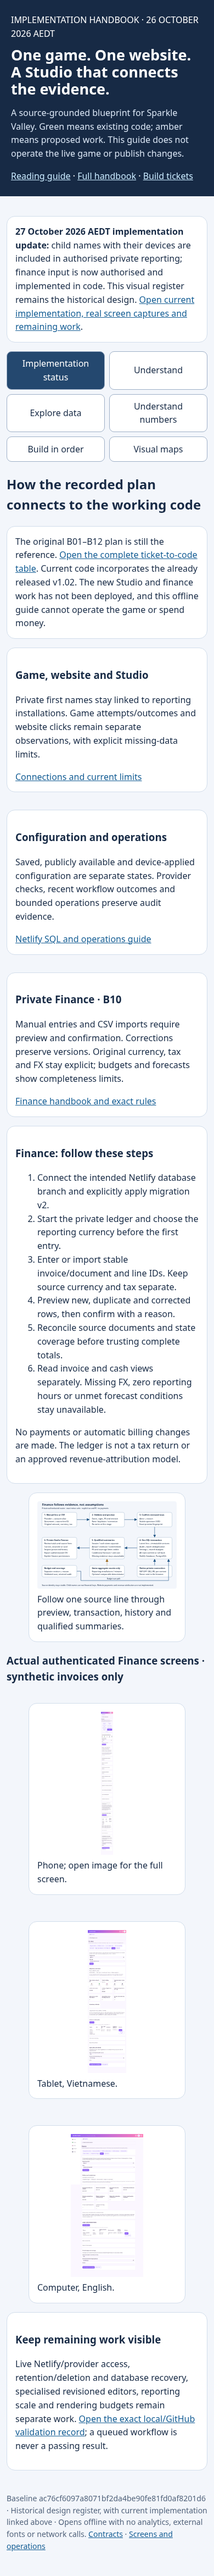
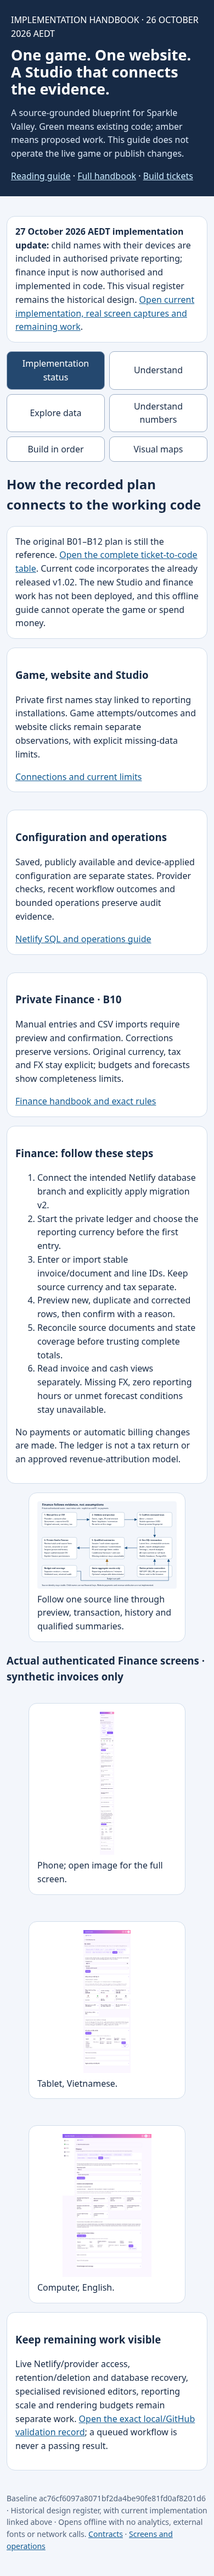
Document exact finance fields and comprehensive validation handoff [skip netlify]

Changed region(s): [[0.3385, 0.8101, 0.6154, 0.8724], [0.4, 0.7478, 0.5846, 0.8101], [0.4615, 0.6543, 0.5231, 0.7166]]

diff --git a/docs/studio-management-foundation/FINANCE.md b/docs/studio-management-foundation/FINANCE.md
@@ -48,6 +48,68 @@ flowchart LR
 
 The finance API consumes aggregate gameplay denominators only. It does not join invoices to child names or introduce a website tracking token. The public game and website cannot read the ledger.
 
+## Field-by-field connection for a builder
+
+Read these sources in order: [form and display](../../studio/ui/finance.ts),
+[CSV parser/export](../../netlify/lib/management/finance-import.mts),
+[validation and exact arithmetic](../../netlify/lib/management/finance-values.mts),
+[transactions and summaries](../../netlify/lib/management/finance.mts),
+[authenticated routes](../../netlify/lib/management/http.mts).
+Every imported row passes through `normalLine`; an unknown field is rejected.
+The row's canonical values are saved under `finance_lines[id].body`, with every
+changed revision retained in `finance_versions`.
+
+| Field in JSON / CSV | What the operator supplies | Where it is used |
+|---|---|---|
+| `schemaVersion` | Integer `1` | Reject unsupported row shapes before preview |
+| `provider` | Source/provider label, not a credential | Part of stable source identity; shown in ledger |
+| `accountAlias` | Non-secret account label | Separates invoices from different accounts; part of identity |
+| `sourceDocumentId` | Original document/invoice ID | Part of identity; shown in ledger and history |
+| `sourceLineId` | Stable row ID within that document | Completes identity; unchanged reimports are duplicates |
+| `kind` | `actual`, `estimate`, `commitment`, `credit`, `revenue` | Chooses actual/estimate/reserve/income calculation and sign rules |
+| `amountMinor` | Tax-exclusive integer minor units; form converts exact decimal input | Original currency allocation, FX, cost/income totals |
+| `currency` | Supported ISO code | Defines decimal places; preserved in ledger/export |
+| `taxMinor` | Signed integer tax units in the same original currency | Separate expense/revenue tax totals; not an inferred tax return |
+| `periodStart`, `periodEnd` | Inclusive calendar service dates | Original-unit invoice allocation across days/months |
+| `recognisedAt` | Valid timestamp, canonicalised to UTC | Preserved source evidence; does not replace service-day allocation |
+| `paidAt` | Timestamp or null; form uses chosen calendar day at midnight UTC | Cash month selection; absent date remains unpaid/unknown |
+| `category` | Allowlisted cost/income category | Preserved classification and kind/refund validation |
+| `costType` | `fixed`, `variable`, `unallocated` | Commitment compatibility and forecast eligibility |
+| `expectedRevision` | `0` for a new source; current revision for a correction | Optimistic conflict check; stored revision increments only on a change |
+| `reconciled` | Boolean after comparison with source evidence | Completeness and forecast conditions; forbidden for estimates/commitments |
+| `voided` | Boolean for excluded mistaken rows | Excludes row from totals while retaining every version |
+| `settles` | Null or an existing commitment's 64-character internal ID | Reduces only the linked compatible commitment's outstanding reserve |
+| `fx.targetCurrency` / `fxTargetCurrency` | Ledger reporting currency | Reject mismatched FX target |
+| `fx.rate` / `fxRate` | Positive decimal string: original major unit → reporting major units | Exact rational conversion; rounded half away from zero |
+| `fx.source` / `fxSource` | Non-secret quote/evidence label | Preserved FX provenance |
+| `fx.asOf` / `fxAsOf` | Quote calendar date | Preserved FX provenance; no automatic live quote is inferred |
+
+`id`, body `hash`, stored `revision`, actor and update time are server-managed.
+A line audit stores before/after hashes; immutable versions retain the full row.
+`finance_batches` records the operation UUID/fingerprint and its result so a lost
+response can be retried without another write. Setting and budget audits retain
+their before/after values. These are typed namespaces in the shared SQL record
+table, not extra public tables or browser storage.
+
+All routes below begin `/studio/api/management/finance`. GET requires
+`finance.read`; POST requires `finance.write` and the normal Studio request
+protection. The session supplies the actor; the browser cannot nominate one.
+
+| Method / suffix | Request | Result / persistence |
+|---|---|---|
+| GET root | `month=YYYY-MM`, `basis=invoice` or `cash` | Qualified snapshot, original lines, settings, budget and quality flags; no mutation |
+| POST `/settings` | `expectedRevision`, `reportingCurrency`, `reason` | Explicit setup, versioned settings and audit |
+| POST `/preview` | Exactly one of `lines` or `csv`, plus `expectedSettingsRevision` | Read-only new/duplicate/correction rows and exact `previewHash` |
+| POST `/commit` | Same input and settings revision, `previewHash`, stable UUID `operationId`, `reason` | One locked transaction for lines, immutable versions, audit and batch receipt |
+| POST `/budget` | `month`, reporting-currency `amountMinor`, nullable `coverageThrough`, `expectedRevision`, `reason` | Versioned monthly budget and manual completeness assertion; immutable audit |
+| GET `/history/:id` | Stable internal source-line ID | All retained line versions |
+| GET `/history/budget/:month` | `YYYY-MM` | Budget/coverage audit versions |
+| GET `/export` | No body | Authenticated CSV including voided rows; private/no-store |
+
+No route changes the public game's coins, player saves, parent website purchases
+or provider billing. Game-derived unit costs use only the existing aggregate
+installation/minute denominators described above.
+
 ## Invoice, cash, tax and FX rules
 
 - **Invoice service-period view:** spread each original minor unit over inclusive service days. Earlier days receive indivisible remainder units. Select the requested calendar-month portion, then convert using the explicit FX rate and currency exponents. This is a documented operational allocation, not a statutory accounting policy. The entered recognition date remains preserved for source evidence; it does not replace the service-period allocation.

diff --git a/docs/studio-management-foundation/09-RUNBOOKS.md b/docs/studio-management-foundation/09-RUNBOOKS.md
@@ -1,6 +1,8 @@
 # Operating handbook and recovery procedures
 
-These are proposed procedures for the future management features. Existing Studio/Netlify/GitHub operations retain their current permissions and release rules. Every procedure records exact build, environment, timestamps and evidence; dates shown to the owner use Australia/Sydney with AEDT/AEST. Do not put secrets or private family data in reports.
+**Current implementation:** manual finance and the implemented reporting/configuration/operations routes are documented in [the operator guide](IMPLEMENTATION.md) and [Finance handbook](FINANCE.md). Production Netlify access and recovery drills are still unverified.
+
+The broader recovery, retention and automation procedures below remain proposed where their required jobs are not implemented. Existing Studio/Netlify/GitHub operations retain their current permissions and release rules. Every procedure records exact build, environment, timestamps and evidence; dates shown to the owner use Australia/Sydney with AEDT/AEST. Do not put secrets or private family data in reports.
 
 ## Morning review: five minutes
 
@@ -70,3 +72,41 @@ Check each store's approved policy and last cleanup result. New retention jobs r
 Record candidate source, website review lock, game/Studio/service-worker versions, schema migrations and old-client support. Complete meaningful tests and review EN/VI phone/tablet/computer evidence. Keep failed/skipped/retried and real-device/provider gaps explicit. Prepare the Netlify package and exact deployment/rollback steps; obtain the owner's round-specific approval before main/Netlify changes.
 
 After an approved deployment, verify response versions/assets, representative functional behavior and reporting receipt. Watch comparable cohorts and configuration application status. If rolling back, check save/schema compatibility and live rules first; do not restore an old binary that cannot read retained data. Follow the same explicit approval boundary for application publication changes.
+
+
+## H. Manual finance review using the implemented screen
+
+1. Before real use, verify the intended Netlify deployment context, migrations and
+   finance grants through the operator setup. Complete the ledger setup explicitly;
+   confirm reporting currency and tax-exclusive treatment before the first entry.
+2. Choose the calendar month and invoice-service-period view. Use the source
+   invoice's provider, account alias, document ID and stable line ID. Enter tax
+   separately. A new document line starts at revision 0; a correction uses the
+   existing line and its current revision. Never substitute game coins for money.
+3. For imports, use the authenticated CSV export as the header template. Keep all
+   amounts in original integer minor units, preserve source identity, and supply
+   explicit FX evidence where needed. Preview without saving, compare every
+   new/duplicate/corrected row, then confirm with a reason. Retain the same operation
+   ID if retrying a response whose result is unknown.
+4. Reconcile each actual/credit/revenue line against its source. An estimate or
+   commitment is not a reconciled actual invoice. Link a settlement only to the
+   intended compatible commitment; review outstanding reserves separately.
+5. Set the month's budget in the ledger's reporting currency. Set coverage through
+   a date only after reviewing source completeness through that date. Coverage is
+   your assertion, not a provider receipt; future coverage is rejected. Do not mark
+   it complete merely to unlock a forecast or unit-cost card.
+6. Read missing FX, unreconciled, unpaid and coverage flags before drawing a
+   conclusion. Compare actuals, estimates and commitments as distinct figures.
+   A subtotal may be useful while incomplete, but it is not the final monthly cost.
+7. Switch to cash view to inspect paid-date totals. Follow the UTC calendar-date
+   convention in [Finance](FINANCE.md) when importing offset timestamps. Invoice
+   allocations and cash payments can legitimately fall in different months.
+8. Review budget history and each corrected line's history. A late correction can
+   restate an earlier month; there is no closed-period/frozen statement feature.
+   Export privately for the applicable accounting review. Do not put actual bills,
+   exports or family records in this public repository.
+
+Cost per reporting installation/hour is available only when its completeness and
+nonzero denominator conditions hold. Forecasts require their listed coverage and
+classification conditions. No screen buys services, transfers money, changes a
+provider bill or infers an approved revenue/contribution-margin model.

diff --git a/docs/cores/BOARD.md b/docs/cores/BOARD.md
@@ -1,6 +1,6 @@
 ## Studio management implementation (27 October 2026 AEDT)
 
-- **Now:** finance/full-suite continuation on `review/studio-finance-20261027`, integrated with released v1.02 (`b241286a`). Manual-first B10 Finance, native Netlify SQL, game outcomes and bounded operations are implemented. First GitHub run [40431751008](https://github.com/nguyentuanphu/tpn/actions/runs/40431751008), app `3967cf91`: 247/250 checks passed; published-log glyphs fixed (all nine quick checks pass), management folding/help corrections pass 82 page/device combinations and 758 close/reopen checks, including a final authenticated status-card regression. Freeze-report cause remains unconfirmed (unchanged check passes twice locally). 399 unit cases and 17 real SQL cases passed. Continuing alone until corrected full-suite result. [Traceability](../studio-management-foundation/PLAN-TRACEABILITY.md), [Finance](../studio-management-foundation/FINANCE.md), [validation](../studio-management-foundation/IMPLEMENTATION-VALIDATION.md). Remaining: live Netlify binding/provider access, retention/recovery, specialised editors, reporting scale and rendering debt. No new version or production deployment approval.
+- **Now:** finance/full-suite continuation on `review/studio-finance-20261027`, integrated with released v1.02 (`b241286a`). Manual-first B10 Finance, native Netlify SQL, game outcomes and bounded operations are implemented. First GitHub run [40431751008](https://github.com/nguyentuanphu/tpn/actions/runs/40431751008), app `3967cf91`: 247/250 checks passed; published-log glyphs fixed (all nine quick checks pass), management folding/help corrections pass 82 page/device combinations and 758 close/reopen checks, including a final authenticated status-card regression. Freeze-report cause remains unconfirmed (unchanged check passes twice locally). 399 unit cases and 17 real SQL cases passed. Continuing alone: comprehensive `all=true` [GitHub run 40459786851](https://github.com/nguyentuanphu/tpn/actions/runs/40459786851) tests app `35bffe6a`; all 17 SQL cases passed and browser shards are active. Default run 40457933192 was superseded to avoid rotating samples. No full-suite pass claimed yet. [Traceability](../studio-management-foundation/PLAN-TRACEABILITY.md), [Finance](../studio-management-foundation/FINANCE.md), [validation](../studio-management-foundation/IMPLEMENTATION-VALIDATION.md). Remaining: live Netlify binding/provider access, retention/recovery, specialised editors, reporting scale and rendering debt. No new version or production deployment approval.
 
 ## Studio management foundation (documentation, 26 October 2026 AEDT)
 

diff --git a/docs/studio-management-foundation/IMPLEMENTATION-VALIDATION.md b/docs/studio-management-foundation/IMPLEMENTATION-VALIDATION.md
@@ -160,3 +160,24 @@ the preceding status badge; a real authenticated regression exercises its hidden
 and visible facts on all three device sizes in both languages.
 
 [Final status-card regression](evidence/finance-status-card-regression-2026-10-27.json): **3/3 passed** (authenticated EN/VI management/finance, types and documentation rule) after that last adjustment. Eighteen refreshed runtime captures were inspected on phone, tablet and computer.
+
+
+### Comprehensive mode selected
+
+Run `40457933192` checked the corrected source `35bffe6a`; its real PostgreSQL
+job passed all 17 cases. It was superseded before the browser shards completed
+so the replacement run could use `all=true`. A cancelled run is not full-suite
+pass evidence. The legacy slow-check selector still matches `.js` for some film
+and voice sources, while maintained sources are now TypeScript. The comprehensive
+mode explicitly checks every reading item, film and voice area, bypassing rotating
+samples without weakening an assertion or changing application code. Final
+evidence must name that comprehensive run.
+
+
+The comprehensive run's [actual SQL job evidence](evidence/finance-final-github-postgres-2026-10-27.json)
+records 17 passed cases on PostgreSQL 17.11 for exact app `35bffe6a`. The full browser
+result is still pending. [Synthetic CSV verification](evidence/finance-csv-artifact-2026-10-27.json)
+round-tripped five unreconciled example rows without database writes.
+[Static package verification](evidence/finance-static-package-2026-10-27.json)
+checked ZIP integrity and recorded its hash; that archive contains no Studio or
+Functions. The offline guide passed 21 browser cases at 390/820/1280 pixels.

diff --git a/docs/studio-management-foundation/08-DECISIONS.md b/docs/studio-management-foundation/08-DECISIONS.md
@@ -59,6 +59,16 @@ These boundaries protect delivery scope and clarify what a later proposal would 
 
 ## Current implementation decisions — 27 October 2026 AEDT
 
+The earlier D01–D12 table is the original design decision record. The following
+owner instructions and implemented decisions supersede conflicting assumptions:
+
+- The owner explicitly requested child first names alongside their devices.
+  Permission-aware private reads and optional consented event context support
+  that request; Analytics/name-reporting opt-outs remain effective. The earlier
+  installation-only D05 proposal does not override that instruction. Retention,
+  deletion and a parent-facing collection explanation remain prerequisites before
+  activating new detailed collection for real families.
+
 - The owner selected **Netlify Database** for production SQL. Its context-specific
   `NETLIFY_DB_URL` takes precedence over the development fallback. No paid database
   was provisioned and the production binding remains unavailable in this workspace.

diff --git a/docs/studio-management-foundation/IMPLEMENTATION.md b/docs/studio-management-foundation/IMPLEMENTATION.md
@@ -1,6 +1,6 @@
 # Studio implementation and operator handbook
 
-27 October 2026, Australia/Sydney (AEDT). Branch `work`; current game baseline is the already released v1.02. This is the current implementation record. The original handbook and registries describe the larger design at commit `ac76cf60`; they are not a completion checklist.
+27 October 2026, Australia/Sydney (AEDT). Branch `review/studio-finance-20261027`; current game baseline is the already released v1.02. This is the current implementation record. The original handbook and registries describe the larger design at commit `ac76cf60`; they are not a completion checklist.
 
 The owner authorised implementation, requested child names alongside devices and one active agent, initially deferred finance, then explicitly authorised finance and the full suite. Saved contributions were integrated by the primary agent after the parallel workers stopped. No production deployment, paid database provisioning or version change has been performed.
 

diff --git a/docs/cores/release.md b/docs/cores/release.md
@@ -366,3 +366,11 @@ financial input is authorised by these validation steps.
 - Owner reply, 27 October 2026 AEDT: **Existing Netlify Database (Recommended)**.
   This confirms the existing native Netlify SQL selection. No live connection is
   bound in this workspace; retain the private deployment-context `NETLIFY_DB_URL`.
+
+Comprehensive verification update, 27 October 2026 AEDT: application frozen at
+`35bffe6a`; [run 40459786851](https://github.com/nguyentuanphu/tpn/actions/runs/40459786851)
+uses `all=true` for every reading item, film and voice area. All 17 SQL cases passed,
+eight browser shards are still active. Default corrected run 40457933192 was
+superseded/cancelled because legacy `.js` slow-source matching can miss `.ts`
+changes; it is not full-suite pass evidence. Handbook now includes field/API
+mapping and the manual finance procedure. No application changes after `35bffe6a`.

diff --git a/docs/studio-management-foundation/README.md b/docs/studio-management-foundation/README.md
@@ -86,3 +86,11 @@ Unicode code-point label. It does not change numbers, outcomes or assertions.
 Keep structured result payloads intact; a reserialized JSON evidence copy may use
 Unicode escapes. Run the normal `emoji` check before publishing, along with the
 other required checks. Never edit a result from failed to passed.
+
+
+For this implementation review, dispatch the existing GitHub **Full suite**
+workflow on `review/studio-finance-20261027` with **Check every reading item, film
+and voice area** enabled (`all=true`). This uses the repository's comprehensive
+mode rather than rotating samples. The exact tested commit, result and any
+retries belong in [implementation validation](IMPLEMENTATION-VALIDATION.md).
+A full run belongs on GitHub; do not run two local suites together.
